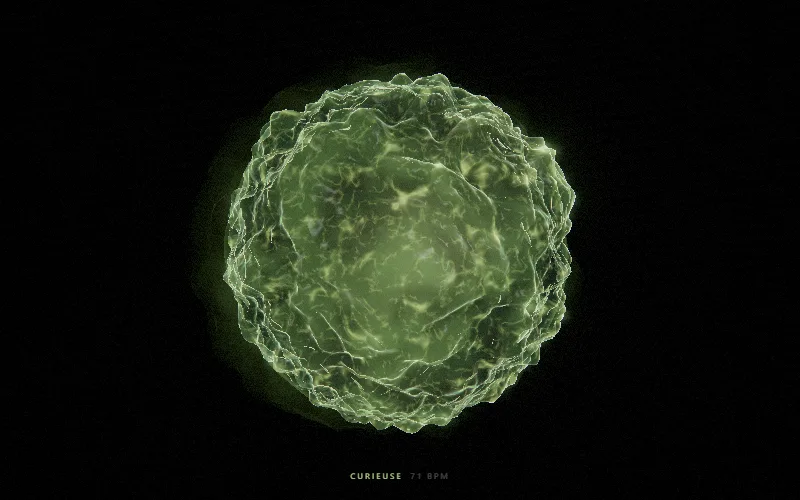
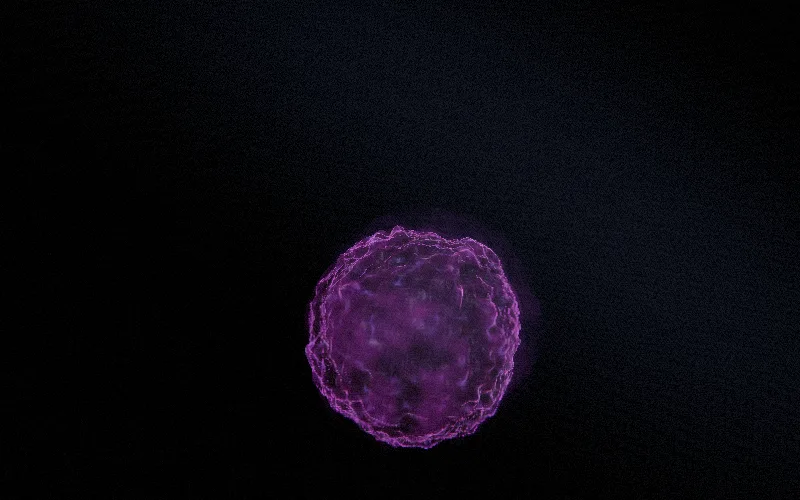
chore(specimen): shoot the thumbnail on a creature that is awake
The card still showed the old orb, and a plain capture caught the specimen
asleep on the floor of its tank: the tool clicks once and then leaves, which for
this one means a knock followed by fifteen seconds of being ignored.

The shot config gains "move", which keeps the pointer circling for the whole
wait. Nothing else uses it yet, but nothing else needs a visitor to be worth
looking at.

diff --git a/tools/shots.ts b/tools/shots.ts
@@ -6,8 +6,9 @@
  *
  * The page is served from dist/, so build first. Per-experiment options live
  * in experiments.json under "shot": a URL fragment, a wait in milliseconds,
- * and whether to click (some experiments open on a title screen worth
- * keeping, others need the click to start).
+ * whether to click (some experiments open on a title screen worth keeping,
+ * others need the click to start), and whether to keep the pointer moving
+ * during that wait (some only come alive while someone is there).
  */
 import { existsSync } from "node:fs";
 import puppeteer from "puppeteer-core";
@@ -72,7 +73,7 @@ const browser = await puppeteer.launch({
 
 for (const experiment of targets) {
   const { slug, shot = {} } = experiment;
-  const { hash = "", wait = 7000, click = true } = shot;
+  const { hash = "", wait = 7000, click = true, move = false } = shot;
   const page = await browser.newPage();
   await page.setViewport({
     width: WIDTH,
@@ -84,7 +85,19 @@ for (const experiment of targets) {
     await page.goto(target, { waitUntil: "load", timeout: 60_000 });
     await Bun.sleep(6000);
     if (click) await page.mouse.click(WIDTH / 2, HEIGHT / 2);
-    await Bun.sleep(wait);
+    if (move) {
+      const steps = Math.max(1, Math.round(wait / 120));
+      for (let i = 0; i < steps; i++) {
+        const angle = (i / steps) * Math.PI * 4;
+        await page.mouse.move(
+          WIDTH / 2 + Math.cos(angle) * WIDTH * 0.17,
+          HEIGHT / 2 + Math.sin(angle) * HEIGHT * 0.17,
+        );
+        await Bun.sleep(120);
+      }
+    } else {
+      await Bun.sleep(wait);
+    }
     await page.screenshot({ path: `${OUT}/${slug}.webp`, type: "webp", quality: 82 });
     const size = Math.round(Bun.file(`${OUT}/${slug}.webp`).size / 1024);
     console.log(`ok   ${slug} (${size} kB)`);

diff --git a/CLAUDE.md b/CLAUDE.md
@@ -14,7 +14,7 @@ lien, ne sont jamais indexées et n'ont aucune page de connexion.
 
 - `experiments.json` : le manifeste. Une entrée par expérience, dans l'ordre
   d'affichage : `slug`, `title`, `line`, `stack`, et un `shot` facultatif qui
-  règle sa capture (`hash`, `wait`, `click`). Source unique des cartes.
+  règle sa capture (`hash`, `wait`, `click`, `move`). Source unique des cartes.
 - `experiments/<slug>/` : une expérience. Le nom du dossier est son URL.
 - `site/` : la page d'accueil, projet Vite + Tailwind v4.
   - `site/index.html` : le cadre. Les cartes remplacent `<!-- cards -->`, un
